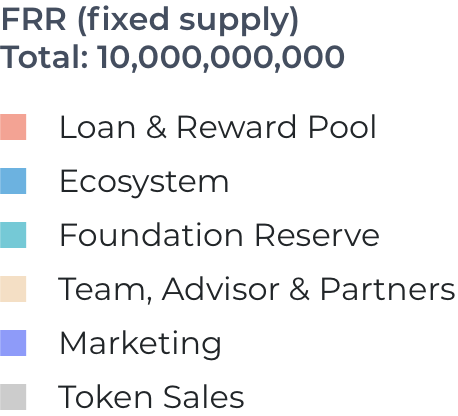
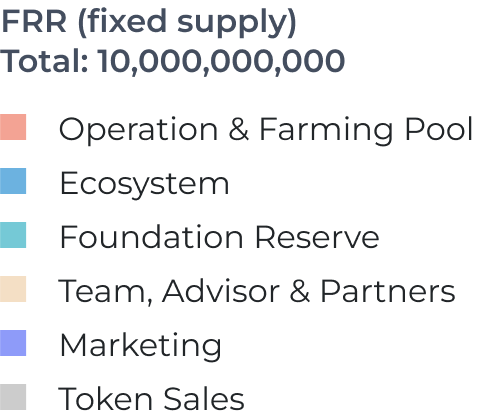
update packages and token graphics/allocation

diff --git a/src/components/Token.vue b/src/components/Token.vue
@@ -18,15 +18,23 @@
           <div class="fr-title">
             {{ t('token.lockup') }}
           </div>
-          <div
-            v-for="(item, index) in tm('token.lock_items') as Record<string, string>"
-            :key="index"
-            :class="`token-schedule-item item${index}`"
-          >
-            <div class="bullet" />
-            <div class="token-schedule-text">
-              {{ item }}
+          <div class="lockup-text">
+            {{ t('token.lockup_text') }}
+          </div>
+          <div class="token-schedule-items">
+            <div
+              v-for="(item, index) in tm('token.lock_items') as Record<string, string>"
+              :key="index"
+              class="token-schedule-item"
+            >
+              <div class="bullet" />
+              <div class="token-schedule-text">
+                {{ item }}
+              </div>
             </div>
+          </div>
+          <div class="lockup-text">
+            {{ t('token.lockup_footer') }}
           </div>
         </div>
         <div class="lockup-image">
@@ -93,6 +101,9 @@ const { t, tm } = useI18n();
       margin-bottom: 40px;
       padding-right: 24px;
     }
+    .lockup-text {
+      @mixin text 15px;
+    }
     .lockup-items {
       display: flex;
       align-items: flex-start;
@@ -111,6 +122,9 @@ const { t, tm } = useI18n();
         width: 100%;
       }
     }
+    .token-schedule-items {
+      margin: 8px 0 24px;
+    }
     .token-schedule-item {
       margin-top: 20px;
       @mixin text 15px;
@@ -123,30 +137,7 @@ const { t, tm } = useI18n();
         height: 14px;
         margin-right: 8px;
         margin-top: 3px;
-      }
-      &.item0 {
-        margin-top: 0;
-        .bullet {
-          background-color: rgb(245, 163, 148);
-        }
-      }
-      &.item1 .bullet {
-        background-color: rgb(107, 177, 224);
-      }
-      &.item2 .bullet {
-        background-color: rgb(115, 201, 214);
-      }
-      &.item3 .bullet {
-        background-color: rgb(245, 224, 197);
-      }
-      &.item4 .bullet {
-        background-color: rgb(143, 152, 249);
-      }
-      &.item5 .bullet {
-        background-color: rgb(204, 204, 204);
-      }
-      &.item6 .bullet {
-        background-color: rgb(204, 204, 204);
+        background-color: $purple;
       }
     }
   }
